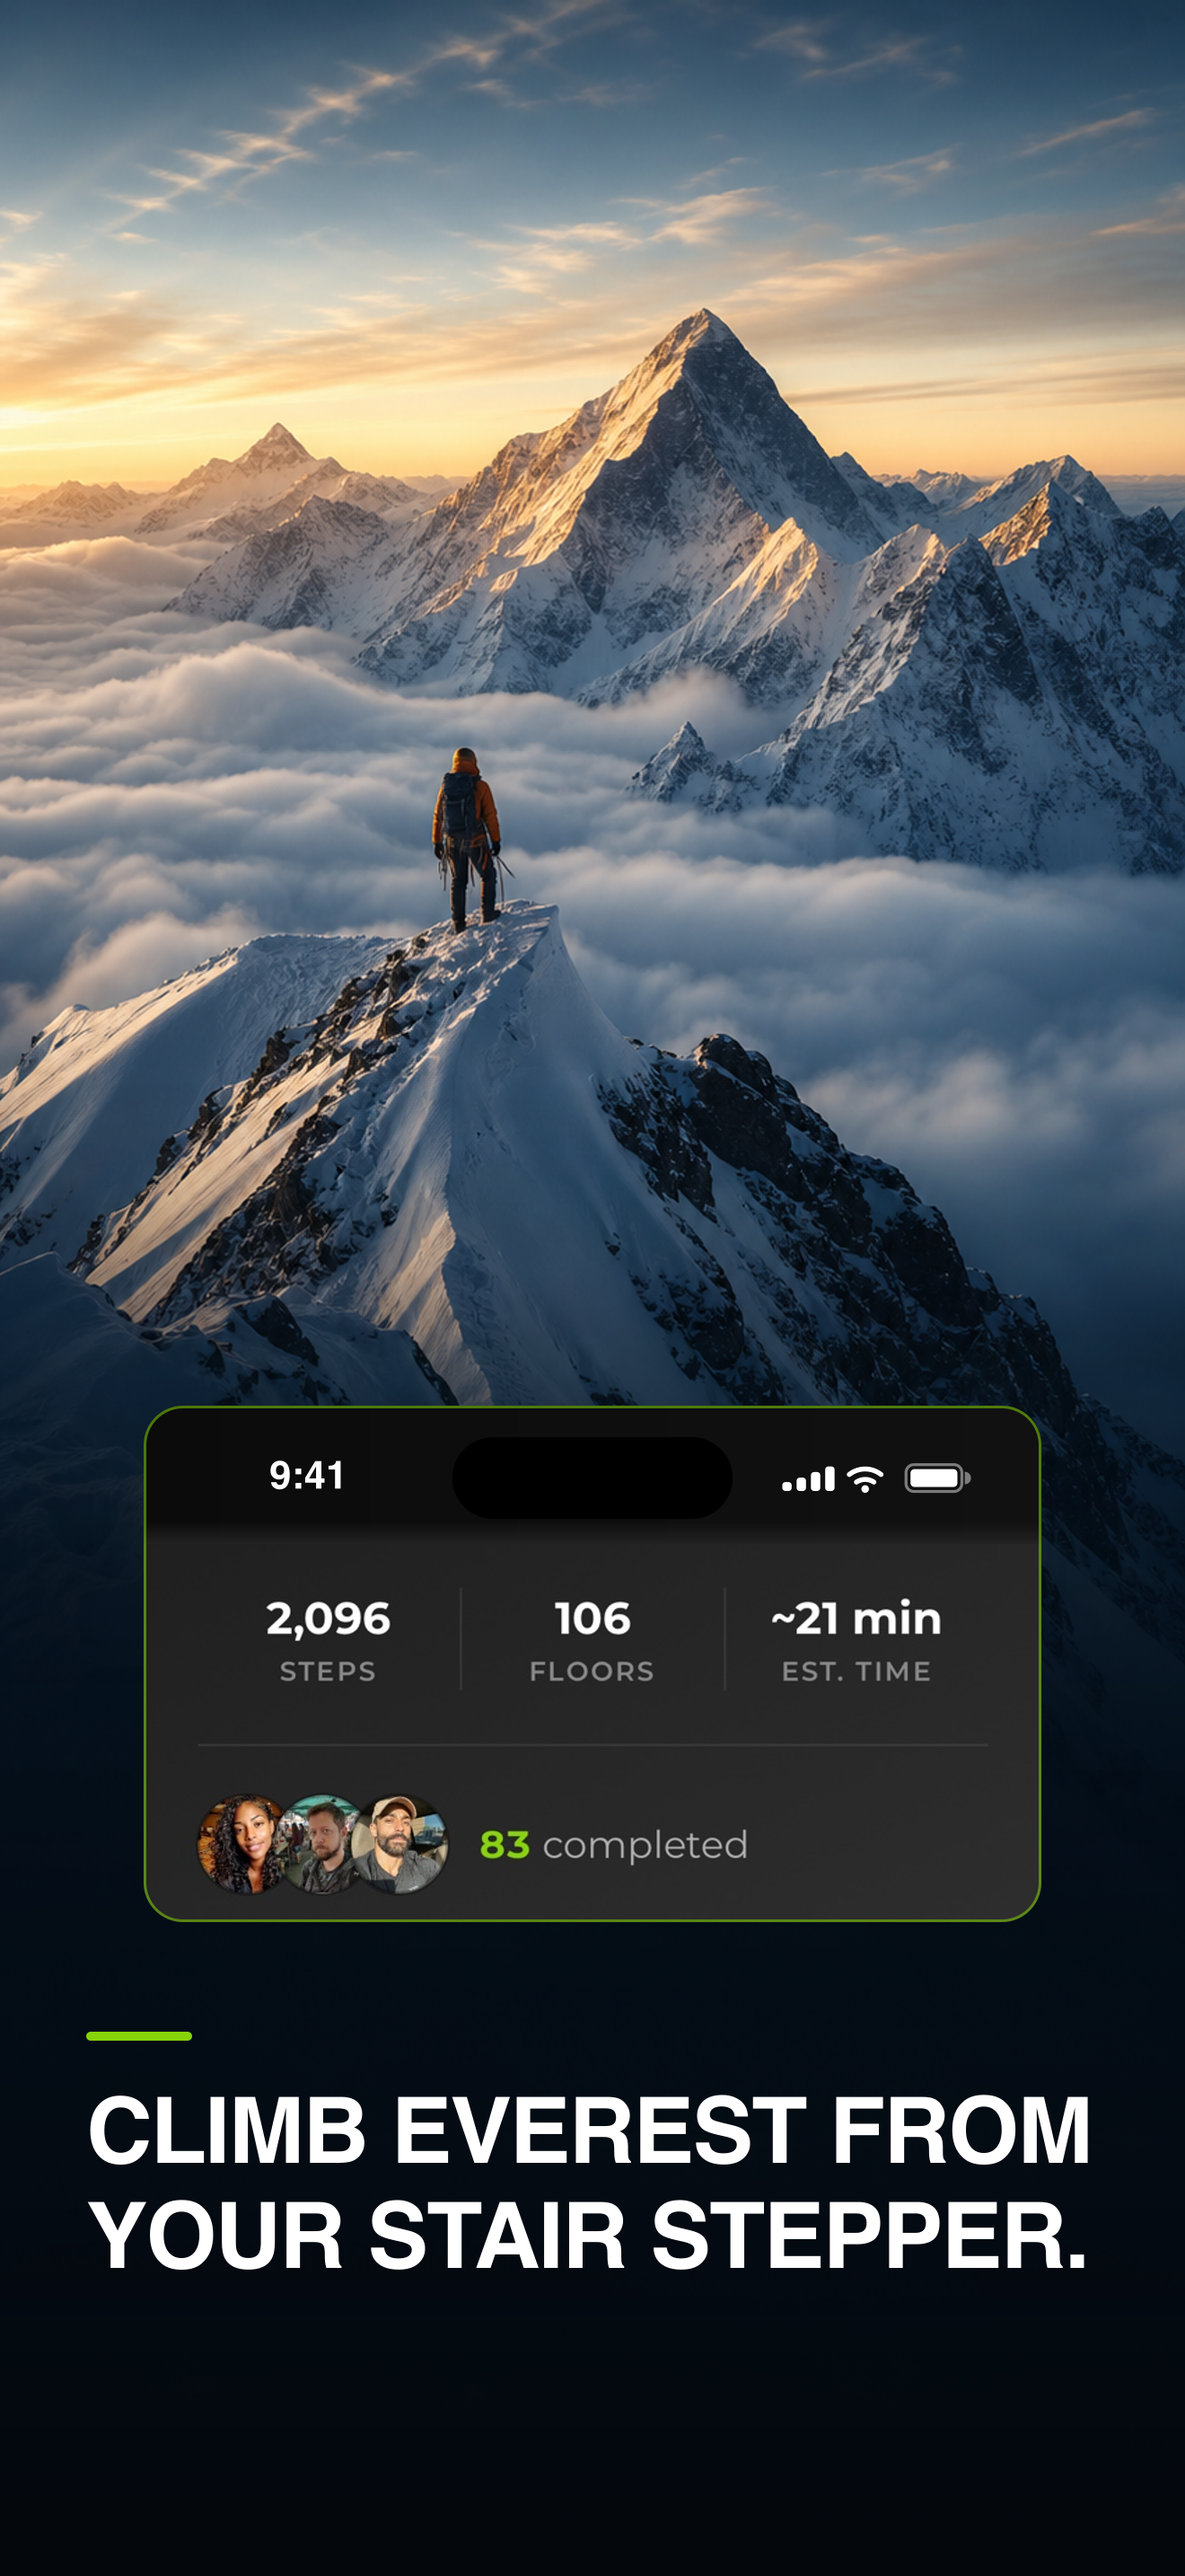
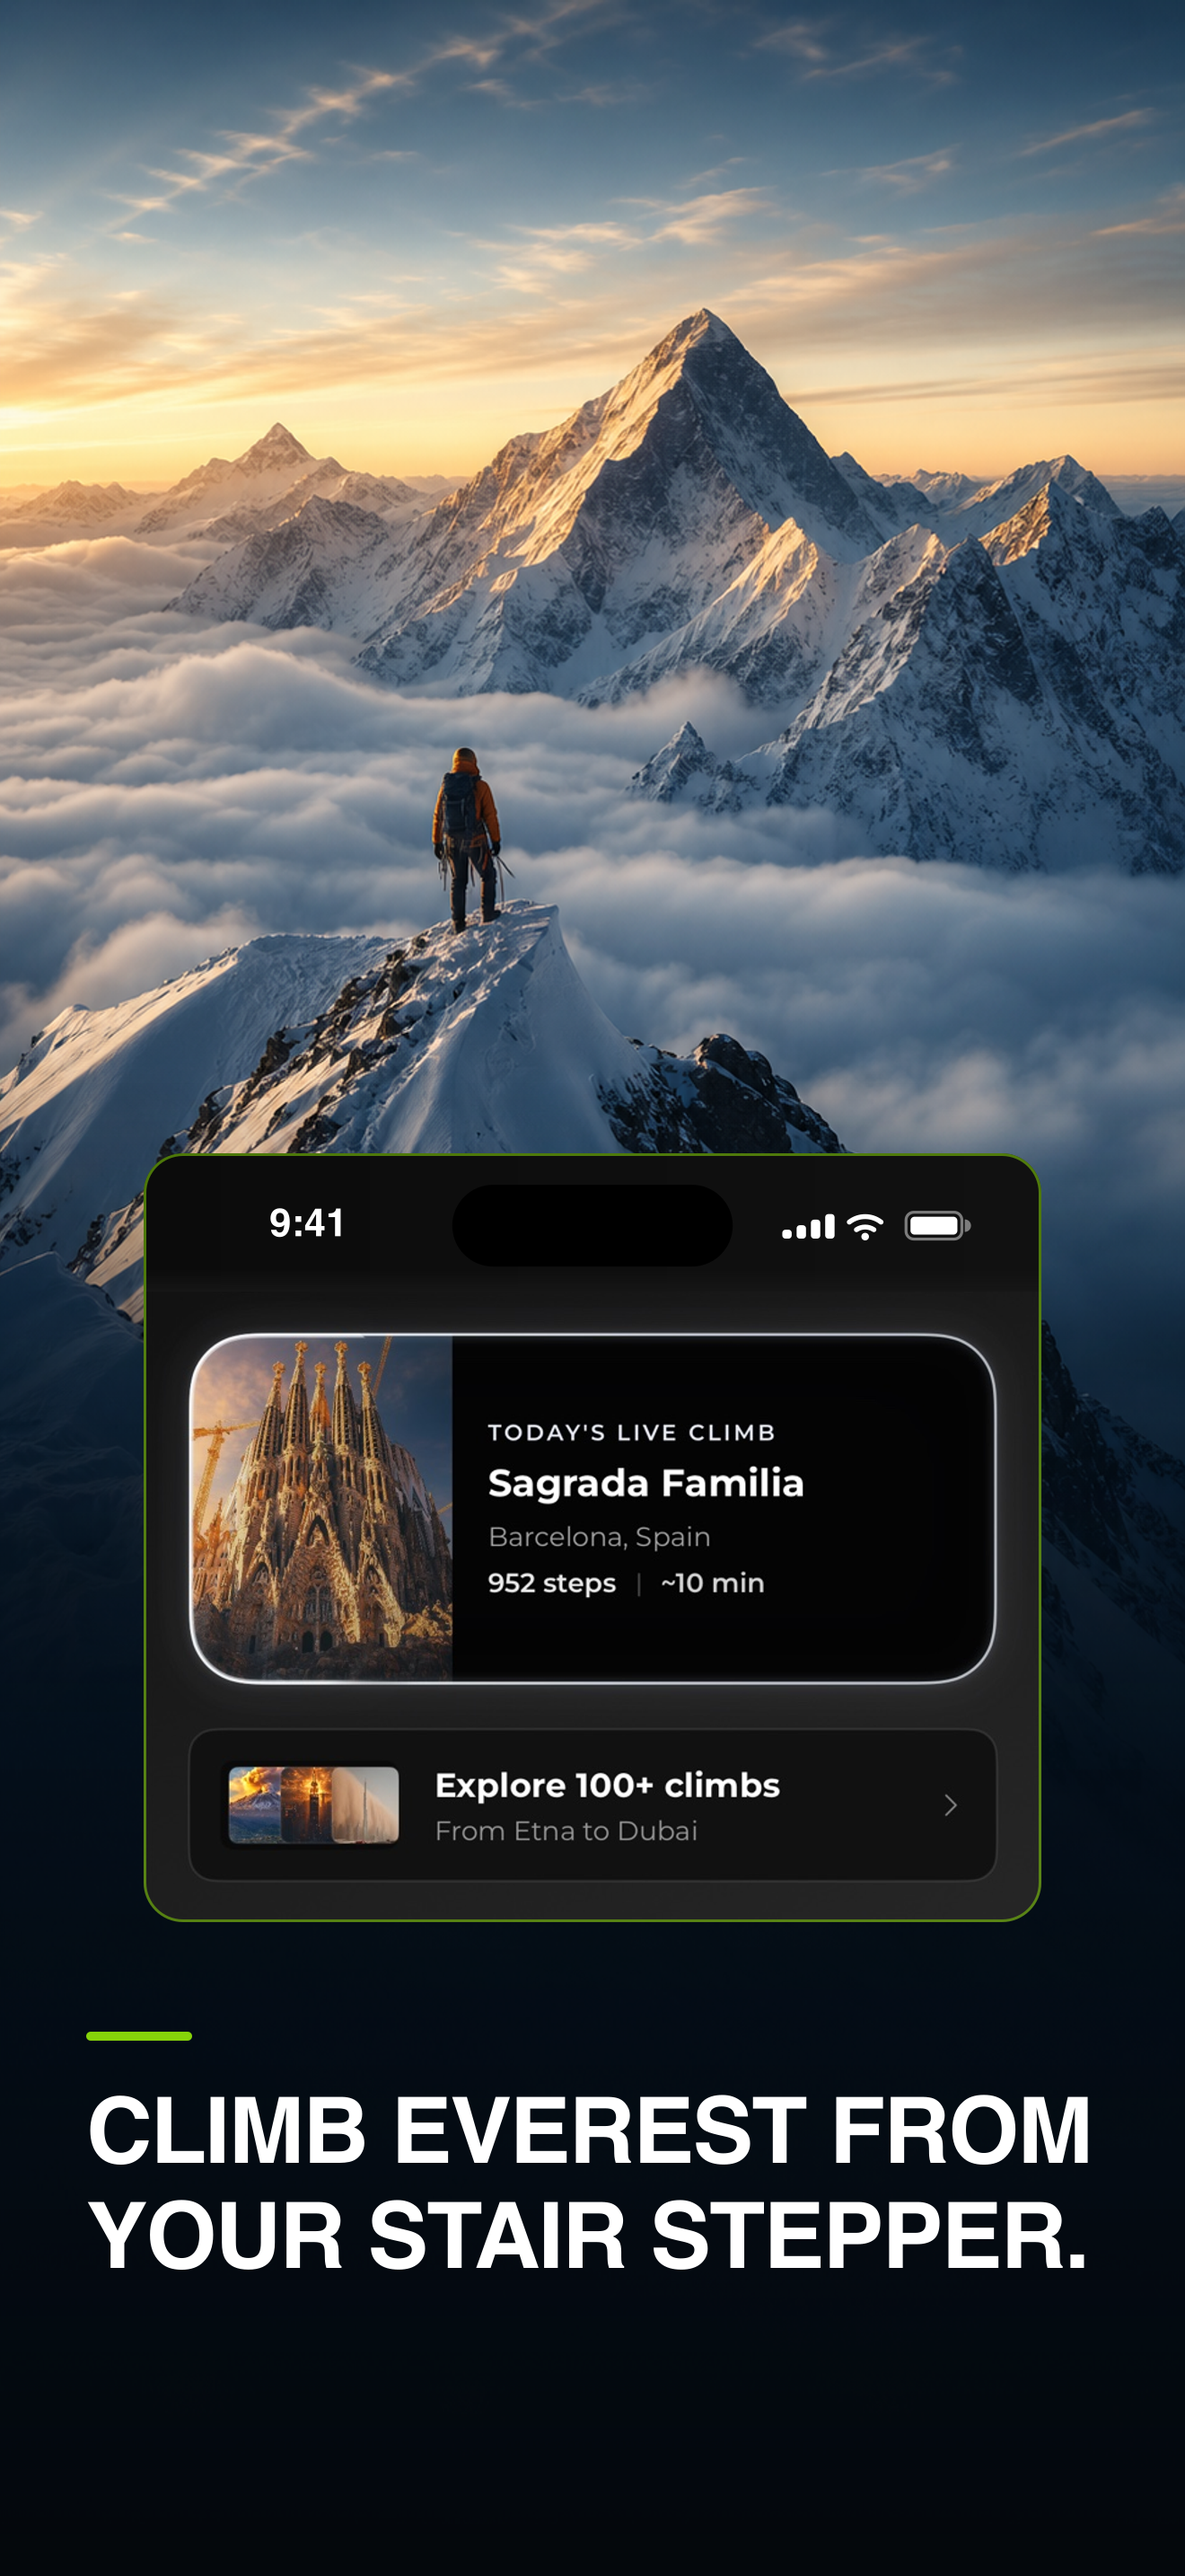
no-mistakes(review): replace disabled-CTA captures, rebalance lead insets

Changed region(s): [[0.1242, 0.4344, 0.9008, 0.7448]]

diff --git a/data/ascend-support-page-and-product-page-package/screenshot-sources/README.md b/data/ascend-support-page-and-product-page-package/screenshot-sources/README.md
@@ -5,11 +5,17 @@ The raw photographs contain no text, logos, phones, or app interface; the render
 
 All app imagery, including the insets on the transformation screens, is real Ascend app imagery already tracked in the repository:
 
-- Browse: `web/public/images/ascend-globe-browse.jpg`
-- Live race: `web/public/images/ascend-live-climb-leaderboard-preview.png`
-- Leaderboard: `web/public/images/ascend-climb-leaderboard.jpg`
-- First Ascent: `web/public/images/ascend-climb-detail.jpg` with the real `FirstAscentBadgeDetailed` app asset
-- Best Efforts: `web/public/images/ascend-best-effort-detail.png`
+- Screen 01 inset, live race: `web/public/images/ascend-live-climb-leaderboard-preview.png`
+- Screen 02 inset, home: `web/public/images/ascend-home-live-climb.jpg`
+- Screen 03, browse: `web/public/images/ascend-globe-browse.jpg`
+- Screen 04, live race: `web/public/images/ascend-live-climb-leaderboard-preview.png`
+- Screen 05, climb results: `web/public/images/ascend-live-climb-results.png`
+- Screen 06, First Ascent: `web/public/images/ascend-climb-leaderboard.jpg` with the real `FirstAscentBadgeDetailed` app asset
+- Screen 07, Best Efforts: `web/public/images/ascend-best-effort-detail.png`
+
+No screen uses `web/public/images/ascend-climb-detail.jpg`.
+It is the one capture whose Start Live Climb button is in its disabled state, and a storefront screenshot must not feature an inactive primary action.
+The renderer still reads that file's status bar for the device-point measurements behind `statusBarSvg`.
 
 `device-frame.png` is the frame supplied by the `aso-appstore-screenshots` skill.
 
